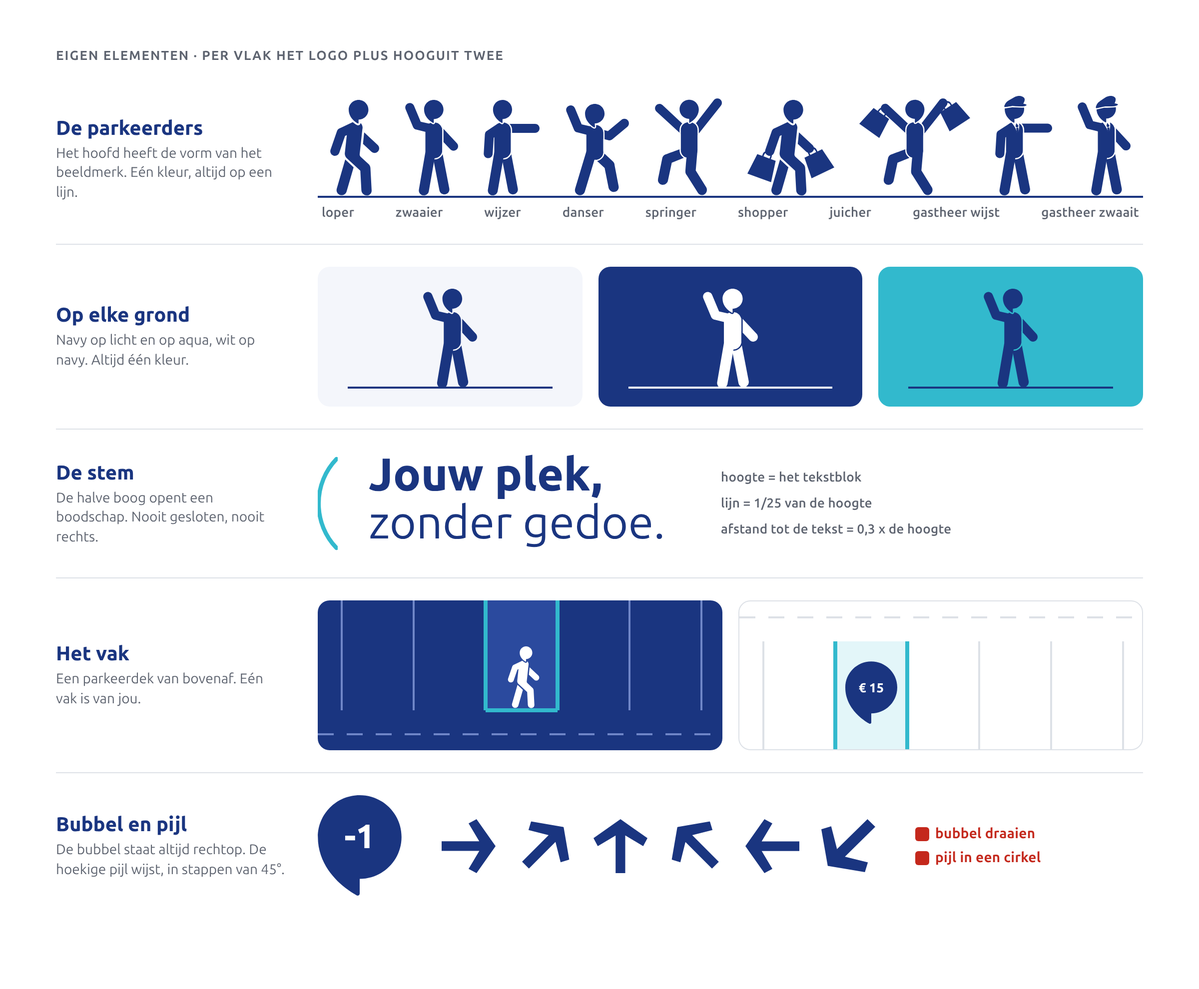
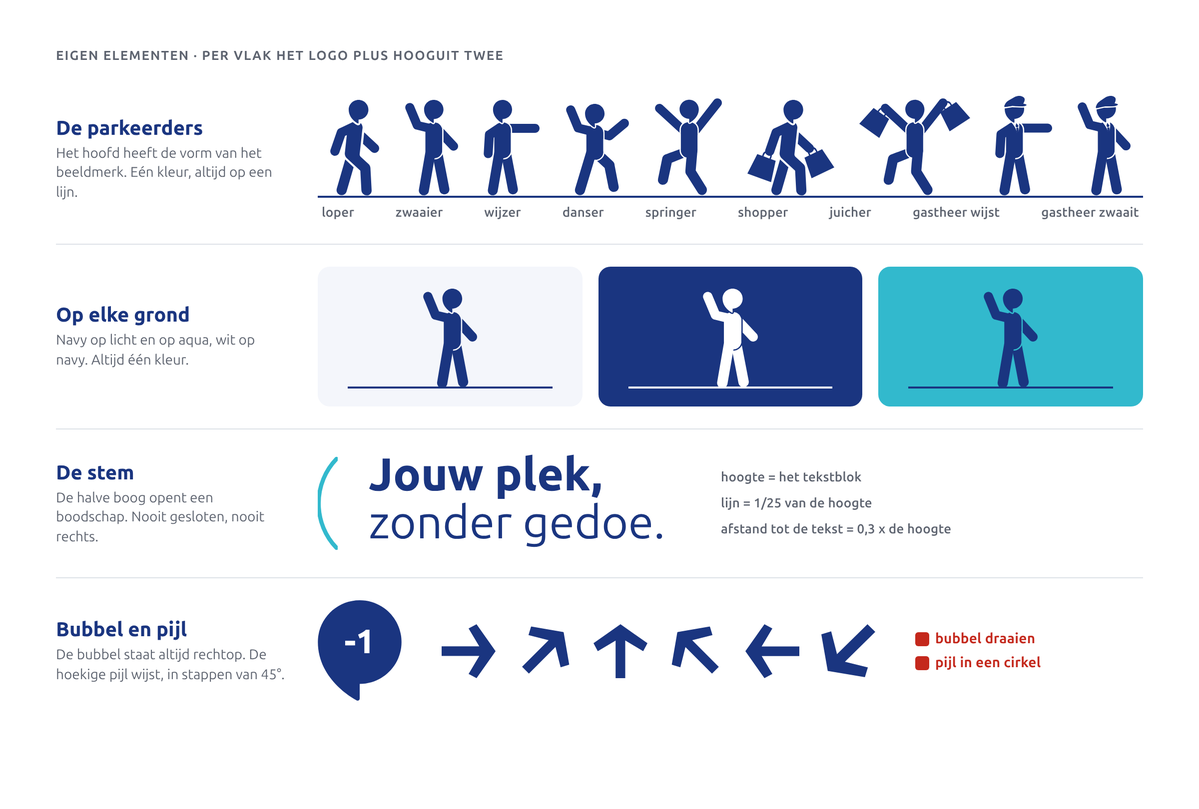
brand-2027: D44 work in progress (intro, short guide)
Claude-Session: https://claude.ai/code/session_01A5zCZPhhdyTXntSMSAxsZz

diff --git a/brand-2027/02-build/02-kleur/figures/aqua-roles.html b/brand-2027/02-build/02-kleur/figures/aqua-roles.html
@@ -12,7 +12,7 @@
 <body>
 <div class="fig" style="width:1200px;height:640px;padding:48px;display:flex;flex-direction:column;gap:22px">
 <div class="eyebrow">PY-Aqua · buiten de garage ons accent, in de garage lopen</div>
-<div style="display:flex;gap:40px"><div style="display:flex;flex-direction:column;gap:8px;width:246px"><div style="position:relative;width:246px;height:250px;background:#FFFFFF;box-shadow:inset 0 0 0 1px #DDE1E7;border-radius:12px;overflow:hidden"><div style="position:absolute;left:28px;top:91px"><div style="display:flex;align-items:flex-start"><svg viewBox="0 0 10 45.44" width="14.96" height="68.00" aria-hidden="true" style="display:block;flex:none;overflow:visible"><path d="M9.393 0.453C6.631 3.303 4.396 6.696 2.852 10.463C1.307 14.231 0.453 18.373 0.453 22.721C0.453 27.069 1.307 31.211 2.852 34.978C4.396 38.746 6.631 42.139 9.393 44.988" fill="none" stroke="#32B9CD" stroke-width="2.72" stroke-linecap="round" vector-effect="non-scaling-stroke"/></svg><div style="margin-left:20.40px"><div style="font:400 30px/34px var(--py-font-sans);color:#1A3580;letter-spacing:-0.005em"><div style="height:34px;white-space:nowrap"><b style="font-weight:800">Jouw plek</b>,</div><div style="height:34px;white-space:nowrap">geregeld.</div></div></div></div></div></div><div class="lbl" style="color:#1A3580">De stem</div><div class="note">Opent een kop. Aqua op wit en navy, navy op aqua.</div></div><div style="display:flex;flex-direction:column;gap:8px;width:246px"><div style="position:relative;width:246px;height:250px;background:#1A3580;border-radius:12px;overflow:hidden"><svg viewBox="0 0 246 250" width="246" height="250" aria-hidden="true" style="position:absolute;left:0;top:0"><rect x="102" y="100" width="72" height="150" fill="#2B4A9E"/><line x1="30" y1="100" x2="30" y2="250" stroke="#6F86C8" stroke-width="2"/><line x1="102" y1="100" x2="102" y2="250" stroke="#6F86C8" stroke-width="2"/><line x1="174" y1="100" x2="174" y2="250" stroke="#6F86C8" stroke-width="2"/><line x1="246" y1="100" x2="246" y2="250" stroke="#6F86C8" stroke-width="2"/><line x1="0" y1="76.0" x2="246" y2="76.0" stroke="#6F86C8" stroke-width="2" stroke-dasharray="14.4 12.0"/><line x1="102" y1="100" x2="102" y2="250" stroke="#32B9CD" stroke-width="4"/><line x1="174" y1="100" x2="174" y2="250" stroke="#32B9CD" stroke-width="4"/></svg><div style="position:absolute;left:110px;top:122px"><div style="position:relative;width:56px;height:67.5px;flex:none;"><svg viewBox="0 0 36 43.423" width="56" height="67.5" aria-hidden="true" style="position:absolute;left:0;top:0;overflow:visible"><path d="M18 0C8.059 0 0 8.058 0 17.999C0 34.701 16.691 43.074 16.691 43.074C17.264 43.423 18 43.006 18 42.335L18 35.997C27.941 35.997 36 27.939 36 17.999C36 8.058 27.941 0 18 0Z" fill="#FFFFFF"/></svg><div style="position:absolute;left:0;top:0;width:56px;height:56px;display:flex;align-items:center;justify-content:center;color:#1A3580"><span class="tnum" style="font:800 16px/1 var(--py-font-sans);white-space:nowrap">Vrij</span></div></div></div></div><div class="lbl" style="color:#1A3580">De randen van jouw vak</div><div class="note">Twee aqua lijnen, dubbel zo dik als de andere.</div></div><div style="display:flex;flex-direction:column;gap:8px;width:246px"><div style="position:relative;width:246px;height:250px;background:#24272C;border-radius:12px;overflow:hidden"><div style="position:absolute;left:24px;top:24px;right:24px;bottom:24px;background:#32B9CD;padding:20px;display:flex;flex-direction:column;justify-content:space-between;color:#1A3580"><div style="display:flex;align-items:center"><svg viewBox="0 0 11.924 22.951" width="33.3" height="64" aria-hidden="true" style="display:block;flex:none"><g ><path d="M9.719 16.354C9.716 16.302 9.71 16.252 9.701 16.202C9.675 15.903 9.542 15.614 9.306 15.394L7.394 13.619C7.216 13.454 7.126 13.214 7.152 12.972L7.793 7.022C7.84 6.842 7.854 6.649 7.83 6.449C7.786 6.089 7.613 5.767 7.36 5.531C7.343 5.844 7.083 6.094 6.766 6.094C6.664 6.094 6.565 6.068 6.477 6.018C6.386 5.97 5.969 5.742 5.507 5.332L2.277 6.854C2.049 6.962 1.88 7.144 1.784 7.357C1.756 7.409 1.732 7.463 1.712 7.52L0.197 11.932C0 12.507 0.306 13.132 0.881 13.33C1.455 13.527 2.081 13.221 2.278 12.647L3.655 8.637L4.078 8.438L3.613 12.649C3.613 12.649 3.6 12.781 3.6 12.848C3.6 13.167 3.698 13.462 3.865 13.707C3.921 13.794 3.988 13.875 4.068 13.949L7.304 16.954L7.557 21.649C7.593 22.321 8.174 22.871 8.847 22.871C9.52 22.871 10.041 22.321 10.005 21.649L9.719 16.354" fill="#1A3580"/><path d="M4.529 2.353C4.529 1.055 5.584 0 6.882 0C8.181 0 9.236 1.055 9.236 2.353C9.236 3.651 8.181 4.706 6.882 4.706L6.882 5.534C6.882 5.622 6.784 5.678 6.712 5.632C6.712 5.632 4.529 4.535 4.529 2.353" fill="#1A3580"/><path d="M11.453 10.781L8.222 7.783L7.939 10.521L9.957 12.393C10.402 12.807 11.098 12.781 11.511 12.335C11.924 11.89 11.899 11.194 11.453 10.781" fill="#1A3580"/><path d="M1.677 21.248C1.489 21.896 1.863 22.575 2.511 22.763C3.159 22.951 3.837 22.577 4.025 21.929L5.704 16.138L3.703 14.266L1.677 21.248" fill="#1A3580"/></g></svg><div style="margin:0 19px"><svg viewBox="0 0 10 45.44" width="14.08" height="64.00" aria-hidden="true" style="display:block;flex:none;overflow:visible"><path d="M9.393 0.453C6.631 3.303 4.396 6.696 2.852 10.463C1.307 14.231 0.453 18.373 0.453 22.721C0.453 27.069 1.307 31.211 2.852 34.978C4.396 38.746 6.631 42.139 9.393 44.988" fill="none" stroke="#1A3580" stroke-width="2.56" stroke-linecap="round" vector-effect="non-scaling-stroke"/></svg></div><svg viewBox="0 0 250 250" width="64" height="64" aria-hidden="true" style="display:block;flex:none;transform:rotate(0deg);"><path d="M161.762 0L125 19.794L174.279 102.376L0 102.376L0 147.059L174.618 147.059L125 230.205L161.762 249.999L249.999 125L161.762 0" fill="#1A3580"/></svg></div><div><div style="font:700 26px/1.1 var(--py-font-sans)">Uitgang</div><div style="font:400 26px/1.1 var(--py-font-sans);margin-top:4px">Exit</div></div></div></div><div class="lbl" style="color:#1A3580">Lopen in de garage</div><div class="note">Aqua bord met navy inhoud. De stem scheidt pictogram en pijl.</div></div></div>
+<div style="display:flex;gap:40px"><div style="display:flex;flex-direction:column;gap:8px;width:246px"><div style="position:relative;width:246px;height:250px;background:#FFFFFF;box-shadow:inset 0 0 0 1px #DDE1E7;border-radius:12px;overflow:hidden"><div style="position:absolute;left:28px;top:91px"><div style="display:flex;align-items:flex-start"><svg viewBox="0 0 10 45.44" width="14.96" height="68.00" aria-hidden="true" style="display:block;flex:none;overflow:visible"><path d="M9.393 0.453C6.631 3.303 4.396 6.696 2.852 10.463C1.307 14.231 0.453 18.373 0.453 22.721C0.453 27.069 1.307 31.211 2.852 34.978C4.396 38.746 6.631 42.139 9.393 44.988" fill="none" stroke="#32B9CD" stroke-width="2.72" stroke-linecap="round" vector-effect="non-scaling-stroke"/></svg><div style="margin-left:20.40px"><div style="font:400 30px/34px var(--py-font-sans);color:#1A3580;letter-spacing:-0.005em"><div style="height:34px;white-space:nowrap"><b style="font-weight:800">Jouw plek</b>,</div><div style="height:34px;white-space:nowrap">geregeld.</div></div></div></div></div></div><div class="lbl" style="color:#1A3580">De stem</div><div class="note">Opent een kop. Aqua op wit en navy, navy op aqua.</div></div><div style="display:flex;flex-direction:column;gap:8px;width:246px"><div style="position:relative;width:246px;height:250px;background:#1A3580;border-radius:12px;overflow:hidden"><div style="position:absolute;left:71px;top:62px"><div style="position:relative;width:104px;height:125.4px;flex:none;"><svg viewBox="0 0 36 43.423" width="104" height="125.4" aria-hidden="true" style="position:absolute;left:0;top:0;overflow:visible"><path d="M18 0C8.059 0 0 8.058 0 17.999C0 34.701 16.691 43.074 16.691 43.074C17.264 43.423 18 43.006 18 42.335L18 35.997C27.941 35.997 36 27.939 36 17.999C36 8.058 27.941 0 18 0Z" fill="#32B9CD"/></svg><div style="position:absolute;left:0;top:0;width:104px;height:104px;display:flex;align-items:center;justify-content:center;color:#1A3580"><span class="tnum" style="font:800 26px/1 var(--py-font-sans);white-space:nowrap">Vrij</span></div></div></div></div><div class="lbl" style="color:#1A3580">Een bubbel op navy</div><div class="note">Aqua bubbel op een navy vlak, met PY-Blauw erin (4,80:1).</div></div><div style="display:flex;flex-direction:column;gap:8px;width:246px"><div style="position:relative;width:246px;height:250px;background:#1A3580;border-radius:12px;overflow:hidden"><div style="position:absolute;left:24px;top:28px"><img src="../../kit/assets/logo-horizontal-reverse.svg" alt="" style="height:28px;display:block;"></div><div style="position:absolute;left:24px;right:24px;bottom:28px;height:48px;border-radius:999px;background:#32B9CD;color:#0D142E;display:flex;align-items:center;justify-content:center;gap:8px;font:600 16px/24px var(--py-font-sans)"><span>Reserveer je plek</span><svg viewBox="0 0 250 250" width="11" height="11" aria-hidden="true" style="display:block;flex:none;margin-top:1px"><path d="M161.762 0L125 19.794L174.279 102.376L0 102.376L0 147.059L174.618 147.059L125 230.205L161.762 249.999L249.999 125L161.762 0" fill="#0D142E"/></svg></div></div><div class="lbl" style="color:#1A3580">Kleine accenten</div><div class="note">De stip in het logo. Op navy de hoofdknop in aqua met PY-Diep (7,74:1).</div></div><div style="display:flex;flex-direction:column;gap:8px;width:246px"><div style="position:relative;width:246px;height:250px;background:#24272C;border-radius:12px;overflow:hidden"><div style="position:absolute;left:24px;top:24px;right:24px;bottom:24px;background:#32B9CD;padding:20px;display:flex;flex-direction:column;justify-content:space-between;color:#1A3580"><div style="display:flex;align-items:center"><svg viewBox="0 0 11.924 22.951" width="33.3" height="64" aria-hidden="true" style="display:block;flex:none"><g ><path d="M9.719 16.354C9.716 16.302 9.71 16.252 9.701 16.202C9.675 15.903 9.542 15.614 9.306 15.394L7.394 13.619C7.216 13.454 7.126 13.214 7.152 12.972L7.793 7.022C7.84 6.842 7.854 6.649 7.83 6.449C7.786 6.089 7.613 5.767 7.36 5.531C7.343 5.844 7.083 6.094 6.766 6.094C6.664 6.094 6.565 6.068 6.477 6.018C6.386 5.97 5.969 5.742 5.507 5.332L2.277 6.854C2.049 6.962 1.88 7.144 1.784 7.357C1.756 7.409 1.732 7.463 1.712 7.52L0.197 11.932C0 12.507 0.306 13.132 0.881 13.33C1.455 13.527 2.081 13.221 2.278 12.647L3.655 8.637L4.078 8.438L3.613 12.649C3.613 12.649 3.6 12.781 3.6 12.848C3.6 13.167 3.698 13.462 3.865 13.707C3.921 13.794 3.988 13.875 4.068 13.949L7.304 16.954L7.557 21.649C7.593 22.321 8.174 22.871 8.847 22.871C9.52 22.871 10.041 22.321 10.005 21.649L9.719 16.354" fill="#1A3580"/><path d="M4.529 2.353C4.529 1.055 5.584 0 6.882 0C8.181 0 9.236 1.055 9.236 2.353C9.236 3.651 8.181 4.706 6.882 4.706L6.882 5.534C6.882 5.622 6.784 5.678 6.712 5.632C6.712 5.632 4.529 4.535 4.529 2.353" fill="#1A3580"/><path d="M11.453 10.781L8.222 7.783L7.939 10.521L9.957 12.393C10.402 12.807 11.098 12.781 11.511 12.335C11.924 11.89 11.899 11.194 11.453 10.781" fill="#1A3580"/><path d="M1.677 21.248C1.489 21.896 1.863 22.575 2.511 22.763C3.159 22.951 3.837 22.577 4.025 21.929L5.704 16.138L3.703 14.266L1.677 21.248" fill="#1A3580"/></g></svg><div style="margin:0 19px"><svg viewBox="0 0 10 45.44" width="14.08" height="64.00" aria-hidden="true" style="display:block;flex:none;overflow:visible"><path d="M9.393 0.453C6.631 3.303 4.396 6.696 2.852 10.463C1.307 14.231 0.453 18.373 0.453 22.721C0.453 27.069 1.307 31.211 2.852 34.978C4.396 38.746 6.631 42.139 9.393 44.988" fill="none" stroke="#1A3580" stroke-width="2.56" stroke-linecap="round" vector-effect="non-scaling-stroke"/></svg></div><svg viewBox="0 0 250 250" width="64" height="64" aria-hidden="true" style="display:block;flex:none;transform:rotate(0deg);"><path d="M161.762 0L125 19.794L174.279 102.376L0 102.376L0 147.059L174.618 147.059L125 230.205L161.762 249.999L249.999 125L161.762 0" fill="#1A3580"/></svg></div><div><div style="font:700 26px/1.1 var(--py-font-sans)">Uitgang</div><div style="font:400 26px/1.1 var(--py-font-sans);margin-top:4px">Exit</div></div></div></div><div class="lbl" style="color:#1A3580">Lopen in de garage</div><div class="note">Aqua bord met navy inhoud. De stem scheidt pictogram en pijl.</div></div></div>
 <div style="height:1px;background:#DDE1E7;margin-top:4px"></div>
 <div style="display:flex;gap:30px"><div style="display:flex;gap:14px;align-items:center;width:340px"><div style="width:120px;height:72px;border-radius:8px;background:#32B9CD;display:flex;align-items:center;justify-content:center;flex:none"><span style="font:700 22px/1 var(--py-font-sans);color:#FFFFFF">Uitgang</span></div><div style="display:flex;flex-direction:column;gap:4px"><span class="dont">Wit op aqua</span><span class="note">2,34:1. Op aqua altijd PY-Blauw.</span></div></div><div style="display:flex;gap:14px;align-items:center;width:340px"><div style="width:120px;height:72px;border-radius:8px;background:#FFFFFF;box-shadow:inset 0 0 0 1px #DDE1E7;display:flex;align-items:center;justify-content:center;flex:none"><span style="font:700 22px/1 var(--py-font-sans);color:#32B9CD">Vrij</span></div><div style="display:flex;flex-direction:column;gap:4px"><span class="dont">Aqua als tekst op wit</span><span class="note">2,34:1. Tekst in aqua is aqua.700 (4,90:1).</span></div></div><div style="display:flex;gap:14px;align-items:center;width:340px"><div style="width:120px;height:72px;border-radius:8px;background:#FFFFFF;box-shadow:inset 0 0 0 1px #DDE1E7;display:flex;align-items:center;justify-content:center;flex:none"><div style="height:36px;padding:0 16px;border-radius:999px;background:#32B9CD;color:#0D142E;display:flex;align-items:center;font:600 13px/1 var(--py-font-sans)">Reserveer</div></div><div style="display:flex;flex-direction:column;gap:4px"><span class="dont">Aqua knop op een licht scherm</span><span class="note">Op licht is de hoofdknop navy. Aqua alleen op donker.</span></div></div></div>
 </div>

diff --git a/brand-2027/03-guide/kort/guide.html b/brand-2027/03-guide/kort/guide.html
@@ -85,18 +85,17 @@ th { color: #1A3580; font-weight: 700; }
   <div class="grid">
     <div class="text">
       <div class="eyebrow">02 · Eigen elementen</div>
-      <div class="title"><svg viewBox="0 0 10 45.44" style="width: 5.4mm; height: 24.5mm" aria-hidden="true"><path d="M9.393 0.453C6.631 3.303 4.396 6.696 2.852 10.463C1.307 14.231 0.453 18.373 0.453 22.721C0.453 27.069 1.307 31.211 2.852 34.978C4.396 38.746 6.631 42.139 9.393 44.988" fill="none" stroke="#32B9CD" stroke-width="1mm" stroke-linecap="round" vector-effect="non-scaling-stroke"></path></svg><h1>Vijf elementen,<span>elk één taak.</span></h1></div>
+      <div class="title"><svg viewBox="0 0 10 45.44" style="width: 5.4mm; height: 24.5mm" aria-hidden="true"><path d="M9.393 0.453C6.631 3.303 4.396 6.696 2.852 10.463C1.307 14.231 0.453 18.373 0.453 22.721C0.453 27.069 1.307 31.211 2.852 34.978C4.396 38.746 6.631 42.139 9.393 44.988" fill="none" stroke="#32B9CD" stroke-width="1mm" stroke-linecap="round" vector-effect="non-scaling-stroke"></path></svg><h1>Vier elementen,<span>elk één taak.</span></h1></div>
       <table>
         <tr><th>Element</th><th>Taak</th></tr>
         <tr><td><b>De parkeerders</b></td><td>ons gezicht: welkom, mensen, momenten</td></tr>
-        <tr><td><b>De stem</b></td><td>de halve boog opent wat we zeggen; op borden scheidt hij de vakken</td></tr>
-        <tr><td><b>Het vak</b></td><td>een parkeerdek van bovenaf; één vak is van jou</td></tr>
+        <tr><td><b>De stem</b></td><td>de halve boog opent wat we zeggen; op borden scheidt hij de onderdelen</td></tr>
         <tr><td><b>De bubbel</b></td><td>prijs, niveau of beschikbaarheid</td></tr>
         <tr><td><b>De hoekige pijl</b></td><td>wijst de weg</td></tr>
       </table>
       <div class="rule"><b>De regel:</b> per vlak het logo plus hooguit twee van deze elementen. Dan blijft het rustig, en herken je ons toch meteen.</div>
     </div>
-    <div class="fig"><img src="img/identity-elements.jpg" alt="De vijf eigen elementen"></div>
+    <div class="fig"><img src="img/identity-elements.jpg" alt="De vier eigen elementen"></div>
   </div>
   <div class="foot"><span><b>parkingyou</b> huisstijl 2027 · kort</span><span>3</span></div>
 </section>
@@ -203,20 +202,20 @@ th { color: #1A3580; font-weight: 700; }
   <div class="foot"><span><b>parkingyou</b> huisstijl 2027 · kort</span><span>8</span></div>
 </section>
 
-<!-- 9 Stem en vak -->
+<!-- 9 Stem en vlakke grond -->
 <section class="page">
   <div class="grid">
     <div class="text">
-      <div class="eyebrow">08 · De stem en het vak</div>
-      <div class="title"><svg viewBox="0 0 10 45.44" style="width: 5.4mm; height: 24.5mm" aria-hidden="true"><path d="M9.393 0.453C6.631 3.303 4.396 6.696 2.852 10.463C1.307 14.231 0.453 18.373 0.453 22.721C0.453 27.069 1.307 31.211 2.852 34.978C4.396 38.746 6.631 42.139 9.393 44.988" fill="none" stroke="#32B9CD" stroke-width="1mm" stroke-linecap="round" vector-effect="non-scaling-stroke"></path></svg><h1>De stem<span>en het vak.</span></h1></div>
-      <p><b>De stem</b> is de halve boog uit het handboek. Hij opent een boodschap, als een aanhalingsteken dat nooit sluit. Op borden scheidt hij de vakken. Aqua op wit en navy, navy op aqua.</p>
-      <p><b>Het vak</b> is een parkeerdek van bovenaf. Eén vak is van jou: gevuld, met aqua randen en een stoplijn. Daarin staat één parkeerder of één bubbel, nooit meer.</p>
+      <div class="eyebrow">08 · De stem en de grond</div>
+      <div class="title"><svg viewBox="0 0 10 45.44" style="width: 5.4mm; height: 24.5mm" aria-hidden="true"><path d="M9.393 0.453C6.631 3.303 4.396 6.696 2.852 10.463C1.307 14.231 0.453 18.373 0.453 22.721C0.453 27.069 1.307 31.211 2.852 34.978C4.396 38.746 6.631 42.139 9.393 44.988" fill="none" stroke="#32B9CD" stroke-width="1mm" stroke-linecap="round" vector-effect="non-scaling-stroke"></path></svg><h1>De stem<span>op een vlakke grond.</span></h1></div>
+      <p><b>De stem</b> is de halve boog uit het handboek. Hij opent een boodschap, als een aanhalingsteken dat nooit sluit. Op borden scheidt hij de onderdelen. Aqua op wit en navy, navy op aqua.</p>
       <ul>
-        <li>Vak: steek 4u (scherm 72 px), lijn 0,05u, vakken 6u tot 8u lang.</li>
-        <li>Het vak is achtergrond voor social, pas, nieuwsbrief en tickets. Nooit op een wegwijsbord, nooit achter tekst.</li>
+        <li>Hoogte = het tekstblok. Lijn = 1/25 van de hoogte. Afstand tot de tekst = 0,3 x de hoogte.</li>
+        <li>Altijd links van de tekst, nooit gesloten.</li>
       </ul>
+      <p><b>De grond</b> is vlak: PY-Blauw of wit, voor rustige delen het lichte blauw. Geen patroon, geen verloop, geen vorm als decoratie. De stem en één parkeerder op een lijn maken het van ons.</p>
     </div>
-    <div class="fig two"><img src="img/stem.jpg" alt="De stem"><img src="img/vak.jpg" alt="Het vak"></div>
+    <div class="fig two"><img src="img/stem.jpg" alt="De stem"><img src="img/combinaties.jpg" alt="De stem en een parkeerder op een vlakke grond"></div>
   </div>
   <div class="foot"><span><b>parkingyou</b> huisstijl 2027 · kort</span><span>9</span></div>
 </section>
@@ -308,7 +307,7 @@ th { color: #1A3580; font-weight: 700; }
 <!-- 14 Print en social -->
 <section class="page">
   <div class="eyebrow">13 · Print en social</div>
-  <div class="title" style="margin-top: 4mm"><svg viewBox="0 0 10 45.44" style="width: 5.4mm; height: 24.5mm" aria-hidden="true"><path d="M9.393 0.453C6.631 3.303 4.396 6.696 2.852 10.463C1.307 14.231 0.453 18.373 0.453 22.721C0.453 27.069 1.307 31.211 2.852 34.978C4.396 38.746 6.631 42.139 9.393 44.988" fill="none" stroke="#32B9CD" stroke-width="1mm" stroke-linecap="round" vector-effect="non-scaling-stroke"></path></svg><h1>Jouw vak<span>staat klaar.</span></h1></div>
+  <div class="title" style="margin-top: 4mm"><svg viewBox="0 0 10 45.44" style="width: 5.4mm; height: 24.5mm" aria-hidden="true"><path d="M9.393 0.453C6.631 3.303 4.396 6.696 2.852 10.463C1.307 14.231 0.453 18.373 0.453 22.721C0.453 27.069 1.307 31.211 2.852 34.978C4.396 38.746 6.631 42.139 9.393 44.988" fill="none" stroke="#32B9CD" stroke-width="1mm" stroke-linecap="round" vector-effect="non-scaling-stroke"></path></svg><h1>Jouw plek<span>staat klaar.</span></h1></div>
   <div style="display: grid; grid-template-columns: 0.62fr 1fr 1fr; gap: 8mm; margin-top: 8mm; align-items: start">
     <div class="fig"><img src="img/key-social-post.jpg" alt="Social post" style="max-height: 118mm"><div class="cap">Social post 4:5: het vak en de gastheer</div></div>
     <div class="fig"><img src="img/key-subscription-card.jpg" alt="Abonnementspas" style="max-height: 118mm"><div class="cap">Abonnementspas: het vak met de zwaaier</div></div>

diff --git a/brand-2027/02-build/00-core/figures/identity-elements.html b/brand-2027/02-build/00-core/figures/identity-elements.html
@@ -13,7 +13,7 @@
 </style>
 </head>
 <body>
-<div class="fig" style="width: 1200px; height: 990px; padding: 48px 56px; display: flex; flex-direction: column">
+<div class="fig" style="width: 1200px; height: 810px; padding: 48px 56px; display: flex; flex-direction: column">
   <div style="display: flex; justify-content: space-between; align-items: flex-end; padding-bottom: 10px">
     <div class="eyebrow">Eigen elementen · per vlak het logo plus hooguit twee</div>
   </div>
@@ -54,20 +54,6 @@
         <div style="color: var(--py-text-brand); font-size: 46px; line-height: 1.05"><div style="font-weight: 800">Jouw plek,</div><div style="font-weight: 400">zonder gedoe.</div></div>
       </div>
       <div style="display: flex; flex-direction: column; gap: 8px" class="note"><span>hoogte = het tekstblok</span><span>lijn = 1/25 van de hoogte</span><span>afstand tot de tekst = 0,3 x de hoogte</span></div>
-    </div>
-  </div>
-
-  <div class="row">
-    <div class="lbl"><b>Het vak</b><span>Een parkeerdek van bovenaf. Eén vak is van jou.</span></div>
-    <div style="flex-grow: 1; display: grid; grid-template-columns: repeat(2, minmax(0, 1fr)); gap: 16px">
-      <div style="height: 150px; border-radius: 12px; background: var(--py-color-blue-700); position: relative; overflow: hidden">
-        <svg viewBox="0 0 420 150" width="100%" height="150" preserveAspectRatio="xMinYMin slice" style="position: absolute; left: 0; top: 0" aria-hidden="true"><g stroke="#6F86C8" stroke-width="2"><line x1="24" y1="0" x2="24" y2="110"></line><line x1="96" y1="0" x2="96" y2="110"></line><line x1="168" y1="0" x2="168" y2="110"></line><line x1="240" y1="0" x2="240" y2="110"></line><line x1="312" y1="0" x2="312" y2="110"></line><line x1="384" y1="0" x2="384" y2="110"></line><line x1="0" y1="134" x2="420" y2="134" stroke-dasharray="16 13"></line></g><rect x="168" y="0" width="72" height="110" fill="#2B4A9E"></rect><line x1="168" y1="0" x2="168" y2="110" stroke="#32B9CD" stroke-width="4"></line><line x1="240" y1="0" x2="240" y2="110" stroke="#32B9CD" stroke-width="4"></line><line x1="168" y1="110" x2="240" y2="110" stroke="#32B9CD" stroke-width="4"></line></svg>
-        <img src="../../kit/assets/figure-walk-white.svg" alt="" style="position: absolute; left: 190px; top: 46px; height: 62px">
-      </div>
-      <div style="height: 150px; border-radius: 12px; background: #FFFFFF; border: 1px solid var(--py-border-subtle); position: relative; overflow: hidden">
-        <svg viewBox="0 0 420 150" width="100%" height="150" preserveAspectRatio="xMinYMin slice" style="position: absolute; left: 0; top: 0" aria-hidden="true"><g stroke="#DDE1E7" stroke-width="2"><line x1="24" y1="40" x2="24" y2="150"></line><line x1="96" y1="40" x2="96" y2="150"></line><line x1="168" y1="40" x2="168" y2="150"></line><line x1="240" y1="40" x2="240" y2="150"></line><line x1="312" y1="40" x2="312" y2="150"></line><line x1="384" y1="40" x2="384" y2="150"></line><line x1="0" y1="16" x2="420" y2="16" stroke-dasharray="16 13"></line></g><rect x="96" y="40" width="72" height="110" fill="#E3F6F9"></rect><line x1="96" y1="40" x2="96" y2="150" stroke="#32B9CD" stroke-width="4"></line><line x1="168" y1="40" x2="168" y2="150" stroke="#32B9CD" stroke-width="4"></line></svg>
-        <div style="position: absolute; left: 106px; top: 60px; width: 52px; height: 63px"><svg viewBox="0 0 36 43.423" width="52" height="63" aria-hidden="true"><path d="M18 0C8.059 0 0 8.058 0 17.999C0 34.701 16.691 43.074 16.691 43.074C17.264 43.423 18 43.006 18 42.335L18 35.997C27.941 35.997 36 27.939 36 17.999C36 8.058 27.941 0 18 0Z" fill="#1A3580"/></svg><div class="tnum" style="position: absolute; left: 0; top: 0; width: 52px; height: 52px; display: flex; align-items: center; justify-content: center; color: #FFFFFF; font-weight: 800; font-size: 13px">€ 15</div></div>
-      </div>
     </div>
   </div>
 

diff --git a/brand-2027/02-build/00-intro/figures/identity-elements.html b/brand-2027/02-build/00-intro/figures/identity-elements.html
@@ -13,7 +13,7 @@
 </style>
 </head>
 <body>
-<div class="fig" style="width: 1200px; height: 990px; padding: 48px 56px; display: flex; flex-direction: column">
+<div class="fig" style="width: 1200px; height: 810px; padding: 48px 56px; display: flex; flex-direction: column">
   <div style="display: flex; justify-content: space-between; align-items: flex-end; padding-bottom: 10px">
     <div class="eyebrow">Eigen elementen · per vlak het logo plus hooguit twee</div>
   </div>
@@ -54,20 +54,6 @@
         <div style="color: var(--py-text-brand); font-size: 46px; line-height: 1.05"><div style="font-weight: 800">Jouw plek,</div><div style="font-weight: 400">zonder gedoe.</div></div>
       </div>
       <div style="display: flex; flex-direction: column; gap: 8px" class="note"><span>hoogte = het tekstblok</span><span>lijn = 1/25 van de hoogte</span><span>afstand tot de tekst = 0,3 x de hoogte</span></div>
-    </div>
-  </div>
-
-  <div class="row">
-    <div class="lbl"><b>Het vak</b><span>Een parkeerdek van bovenaf. Eén vak is van jou.</span></div>
-    <div style="flex-grow: 1; display: grid; grid-template-columns: repeat(2, minmax(0, 1fr)); gap: 16px">
-      <div style="height: 150px; border-radius: 12px; background: var(--py-color-blue-700); position: relative; overflow: hidden">
-        <svg viewBox="0 0 420 150" width="100%" height="150" preserveAspectRatio="xMinYMin slice" style="position: absolute; left: 0; top: 0" aria-hidden="true"><g stroke="#6F86C8" stroke-width="2"><line x1="24" y1="0" x2="24" y2="110"></line><line x1="96" y1="0" x2="96" y2="110"></line><line x1="168" y1="0" x2="168" y2="110"></line><line x1="240" y1="0" x2="240" y2="110"></line><line x1="312" y1="0" x2="312" y2="110"></line><line x1="384" y1="0" x2="384" y2="110"></line><line x1="0" y1="134" x2="420" y2="134" stroke-dasharray="16 13"></line></g><rect x="168" y="0" width="72" height="110" fill="#2B4A9E"></rect><line x1="168" y1="0" x2="168" y2="110" stroke="#32B9CD" stroke-width="4"></line><line x1="240" y1="0" x2="240" y2="110" stroke="#32B9CD" stroke-width="4"></line><line x1="168" y1="110" x2="240" y2="110" stroke="#32B9CD" stroke-width="4"></line></svg>
-        <img src="../../kit/assets/figure-walk-white.svg" alt="" style="position: absolute; left: 190px; top: 46px; height: 62px">
-      </div>
-      <div style="height: 150px; border-radius: 12px; background: #FFFFFF; border: 1px solid var(--py-border-subtle); position: relative; overflow: hidden">
-        <svg viewBox="0 0 420 150" width="100%" height="150" preserveAspectRatio="xMinYMin slice" style="position: absolute; left: 0; top: 0" aria-hidden="true"><g stroke="#DDE1E7" stroke-width="2"><line x1="24" y1="40" x2="24" y2="150"></line><line x1="96" y1="40" x2="96" y2="150"></line><line x1="168" y1="40" x2="168" y2="150"></line><line x1="240" y1="40" x2="240" y2="150"></line><line x1="312" y1="40" x2="312" y2="150"></line><line x1="384" y1="40" x2="384" y2="150"></line><line x1="0" y1="16" x2="420" y2="16" stroke-dasharray="16 13"></line></g><rect x="96" y="40" width="72" height="110" fill="#E3F6F9"></rect><line x1="96" y1="40" x2="96" y2="150" stroke="#32B9CD" stroke-width="4"></line><line x1="168" y1="40" x2="168" y2="150" stroke="#32B9CD" stroke-width="4"></line></svg>
-        <div style="position: absolute; left: 106px; top: 60px; width: 52px; height: 63px"><svg viewBox="0 0 36 43.423" width="52" height="63" aria-hidden="true"><path d="M18 0C8.059 0 0 8.058 0 17.999C0 34.701 16.691 43.074 16.691 43.074C17.264 43.423 18 43.006 18 42.335L18 35.997C27.941 35.997 36 27.939 36 17.999C36 8.058 27.941 0 18 0Z" fill="#1A3580"/></svg><div class="tnum" style="position: absolute; left: 0; top: 0; width: 52px; height: 52px; display: flex; align-items: center; justify-content: center; color: #FFFFFF; font-weight: 800; font-size: 13px">€ 15</div></div>
-      </div>
     </div>
   </div>
 

diff --git a/brand-2027/02-build/09-ui/figures/ui.js b/brand-2027/02-build/09-ui/figures/ui.js
@@ -6,9 +6,7 @@
 // 3. <span class="bub" data-size="64" data-fill="navy">content</span> -> the bubble (path from kit/assets/bubble.svg, never redrawn, never rotated)
 // 4. <div class="voice"><div class="voice__text">...</div></div> -> de stem (kit/assets/arc.svg) left of the text block:
 //    height = text block, stroke = 1/25 of the height (at least 1.5 px), gap = 0.3 x the height.
-// 5. <div class="vak" data-ground="brand|light" data-h="144" data-shift="0">one bubble or one figure</div> -> het vak
-//    (bay pitch 72, line 2 px, jouw vak filled with aqua side lines at double weight, lines run in from the top edge)
-// 6. <div class="qr" data-size="132"></div> -> placeholder QR pattern (not a real code)
+// 5. <div class="qr" data-size="132"></div> -> placeholder QR pattern (not a real code)
 (function () {
   const P = {
     search: '<circle cx="10" cy="10" r="7"/><path d="M21 21l-6-6"/>',
@@ -74,26 +72,6 @@
     el.style.cssText += `;position:relative;display:inline-block;flex:none;width:${w}px;height:${h.toFixed(1)}px;color:${INK[f]}`;
     el.innerHTML = `<svg viewBox="${vb}" width="${w}" height="${h.toFixed(1)}" style="position:absolute;left:0;top:0" aria-hidden="true"><path d="${BP}" style="fill:${FILL[f]};${stroke}"/></svg>` +
       `<span class="bub__c" style="position:absolute;left:0;top:0;width:${w}px;height:${w}px;display:flex;flex-direction:column;align-items:center;justify-content:center;text-align:center">${inner}</span>`;
-  });
-
-  // Het vak: bay lines from the top edge, pitch 72, line 2 px; jouw vak filled, side lines aqua at 4 px; content centred in jouw vak.
-  document.querySelectorAll('.vak').forEach(el => {
-    const W = el.offsetWidth, H = +(el.dataset.h || 144), pitch = 72, brand = el.dataset.ground === 'brand';
-    const line = brand ? 'var(--py-vak-line-on-brand)' : 'var(--py-vak-line)';
-    const mine = brand ? 'var(--py-vak-mine-on-brand)' : 'var(--py-vak-mine)';
-    const x0 = ((W / 2 - pitch / 2) % pitch + pitch) % pitch;
-    const m = Math.round((W / 2 - pitch / 2 - x0) / pitch) + (+(el.dataset.shift || 0));
-    const mx = x0 + m * pitch;
-    let s = `<rect x="${mx}" y="0" width="${pitch}" height="${H}" fill="${mine}"/>`;
-    for (let x = x0; x <= W; x += pitch) {
-      const isEdge = Math.abs(x - mx) < 1 || Math.abs(x - mx - pitch) < 1;
-      s += isEdge ? '' : `<rect x="${x - 1}" y="0" width="2" height="${H}" fill="${line}"/>`;
-    }
-    s += `<rect x="${mx - 2}" y="0" width="4" height="${H}" fill="var(--py-vak-mine-edge)"/><rect x="${mx + pitch - 2}" y="0" width="4" height="${H}" fill="var(--py-vak-mine-edge)"/>`;
-    const inner = el.innerHTML;
-    el.style.cssText += `;position:relative;height:${H}px;flex:none`;
-    el.innerHTML = `<svg width="${W}" height="${H}" style="position:absolute;left:0;top:0" aria-hidden="true">${s}</svg>` +
-      `<div style="position:absolute;left:${mx}px;top:0;width:${pitch}px;height:${H}px;display:flex;align-items:center;justify-content:center">${inner}</div>`;
   });
 
   document.querySelectorAll('.qr').forEach(el => {

diff --git a/brand-2027/tokens/tokens.css b/brand-2027/tokens/tokens.css
@@ -79,11 +79,6 @@
   --py-task-pay-bg: var(--py-color-orange-500);
   --py-task-pay-fg: var(--py-color-blue-900);
   --py-voice-arc: var(--py-color-aqua-500);
-  --py-vak-line: var(--py-color-neutral-200);
-  --py-vak-line-on-brand: var(--py-color-blue-400);
-  --py-vak-mine: var(--py-color-aqua-100);
-  --py-vak-mine-on-brand: var(--py-color-blue-600);
-  --py-vak-mine-edge: var(--py-color-aqua-500);
   --py-figure-body: var(--py-color-blue-700);
   --py-bubble-navy: var(--py-color-blue-700);
   --py-bubble-aqua: var(--py-color-aqua-500);
@@ -215,11 +210,6 @@
   --py-task-pay-bg: var(--py-color-orange-500);
   --py-task-pay-fg: var(--py-color-blue-900);
   --py-voice-arc: var(--py-color-aqua-500);
-  --py-vak-line: var(--py-color-blue-400);
-  --py-vak-line-on-brand: var(--py-color-blue-400);
-  --py-vak-mine: var(--py-color-blue-600);
-  --py-vak-mine-on-brand: var(--py-color-blue-600);
-  --py-vak-mine-edge: var(--py-color-aqua-500);
   --py-figure-body: var(--py-color-neutral-0);
   --py-bubble-navy: var(--py-color-blue-700);
   --py-bubble-aqua: var(--py-color-aqua-500);

diff --git a/brand-2027/tools/build_tokens.py b/brand-2027/tools/build_tokens.py
@@ -111,13 +111,6 @@ SEMANTIC = {
     "voice": {
         "arc": ("aqua.500", "aqua.500", "De stem (half arc) on white and navy; on aqua grounds use blue.700."),
     },
-    "vak": {
-        "line": ("neutral.200", "blue.400", "Het vak: bay lines (light ground / navy ground)."),
-        "line-on-brand": ("blue.400", "blue.400", "Het vak on surface.brand."),
-        "mine": ("aqua.100", "blue.600", "Jouw vak fill."),
-        "mine-on-brand": ("blue.600", "blue.600", "Jouw vak fill on surface.brand."),
-        "mine-edge": ("aqua.500", "aqua.500", "Jouw vak side lines, double weight."),
-    },
     "figure": {
         "body": ("blue.700", "neutral.0", "Parkeerders, one colour (D41): navy on light and aqua grounds / white on navy."),
     },

diff --git a/brand-2027/tools/build_short_guide.py b/brand-2027/tools/build_short_guide.py
@@ -24,7 +24,7 @@ FIGS = {
     "layoutpatronen": "04-grid/figures/layoutpatronen.png",
     "parkeerders-cast": "05-patronen/figures/parkeerders-cast.png",
     "stem": "05-patronen/figures/stem.png",
-    "vak": "05-patronen/figures/vak.png",
+    "combinaties": "05-patronen/figures/combinaties.png",
     "pijl-constructie": "06-iconografie/figures/pijl-constructie.png",
     "style-board": "08-fotografie/figures/style-board.png",
     "screens-key": "09-ui/figures/screens-key.png",

diff --git a/brand-2027/02-build/core-spec.md b/brand-2027/02-build/core-spec.md
@@ -24,6 +24,7 @@ and the creative director decides. Until approved, a proposed value is not used 
 | 8 | Arrow (v2) | The angular arrow from the repo (`py-atom-arrow-*-plain`) is the main arrow everywhere an arrow appears. |
 | 9 | Half arc (v2) | Back, as "de stem" (section 4b). |
 | 10 | Verloop (v2) | Retired. All colour is flat. |
+| 11 | Het vak | Retired after Gate 2, round 2 (D44): four own elements, flat backgrounds. |
 
 ## 1. Brand principles
 
@@ -94,19 +95,18 @@ The bubble is the outer silhouette of the beeldmerk (path in `kit/assets/bubble.
 - **(v2) Always upright.** The bubble is the beeldmerk's silhouette, so like the logo it is never rotated or mirrored. Direction is shown by the angular arrow, never by the tail.
 - **Count.** One bubble per surface. Two on surfaces of 1 m or more in either direction, or on multi-panel layouts (pylon, overview board), never touching.
 - **Clear space.** 1u around the bubble (screen: 8 px for 24 and 40 px bubbles, 16 px for larger).
-- **(v2) No background bubble.** Large decorative bubbles are retired; that role goes to "het vak" (section 4b).
+- **(v2) No background bubble.** Large decorative bubbles are retired; backgrounds are flat PY-Blauw or white (D44).
 - **Never:** gradient fill, shadow, 3D, pattern fill, text longer than 6 characters, the logo inside, two bubbles overlapping, a bubble as a photo frame with text over it, a bubble in safety or RVV signs.
 - **Motion (v2).** The bubble pops in: scale 0.9 to 1 with `easing.bubble`, `duration.expressive` 600 ms, no rotation. Brand moments only (reel open and close, app splash, confirmation). Under reduced motion: fade 0 to 1 in 120 ms.
 
 ## 4b. Own elements (v2)
 
-Five elements, each with one task. **Per surface: the logo plus at most two of them.** Reference figure: `00-core/figures/identity-elements.png`.
+Four elements, each with one task (D44: het vak is retired). **Per surface: the logo plus at most two of them.** Reference figure: `00-core/figures/identity-elements.png`.
 
 | Element | Task | Source |
 |---|---|---|
 | De parkeerders | the brand's face; people, welcome, moments | `svg/atom/py-atom-figure-*`; kit `figure-*-navy.svg`, `figure-*-white.svg` |
 | De stem (halve boog) | opens a message; separates modules on signs | `svg/atom/py-atom-shape-bracket-arc` (arc only); kit `arc.svg` |
-| Het vak | background: a parking deck from above, one bay is yours | drawn from the rules below |
 | De bubbel | price, level, availability | section 4 |
 | De hoekige pijl | direction | `svg/atom/py-atom-arrow-*-plain`; kit `arrow-*` |
 
@@ -123,10 +123,7 @@ Five elements, each with one task. **Per surface: the logo plus at most two of t
 - On signs: the separator between modules (P and arrow, pictogram and text), same stroke as above, PY-Aqua on navy, PY-Blauw on aqua.
 - One per surface in layouts; on signs as many separators as there are module breaks.
 
-**Het vak.** A parking deck seen from above. Vertical bay lines at a pitch of 4u (screen: 72 px), line weight 0.05u (screen 2 px), running in from the top or bottom edge for 6u to 8u (screen 144 to 192 px), with an optional dashed lane line (dash 0.3u, gap 0.25u). **(D40)**
-- Exactly one bay is "jouw vak": filled `vak.mine`, its two side lines in PY-Aqua at double weight, closed at its open end by a stop line (same weight, PY-Aqua). It holds one figure standing on that stop line, or one bubble, nothing else. **(D40)**
-- Colours: on PY-Blauw lines `blue.400`, jouw vak `blue.600`; on white lines `neutral.200`, jouw vak `aqua.100`.
-- Use: social, newsletter header, card backs, posters, screen headers and empty states. Never on wayfinding signs or behind text.
+**Backgrounds (D44).** Flat PY-Blauw or white (paper `blue.50` for quiet sections). No pattern, no deck, no decorative shape. The stem and one parkeerder carry the identity on social, cards, newsletter, posters, screen headers and empty states.
 
 **De hoekige pijl.** The handbook arrow (`py-atom-arrow-right-plain`, `-downleft-plain`), rotated in steps of 45 degrees. Colour = the content colour of its ground. Stands alone, never in a circle or bubble. In buttons and links at the cap height of the label. Tabler icons are used for everything else, never for arrows.
 
@@ -163,7 +160,7 @@ Full scales (50 to 900 for blue, aqua, orange, neutral; red 100, 600, 700) are i
 - Status always uses a word next to the colour (Vrij, Vol, Gesloten). Colour alone never carries meaning.
 
 **(v2) Marketing, screen and print.** Approximate share of a layout: white and paper (`blue.50`) 47, PY-Blauw 38, PY-Aqua 13, orange 0 percent (garage payment only, about 2 percent of a signage set).
-Aqua appears as the stem, the head of a parkeerder, jouw vak lines, a bubble or a small accent. Outside the garage, aqua is the brand accent; inside the garage aqua always means walking.
+Aqua appears as the stem, a bubble on navy or a small accent. Outside the garage, aqua is the brand accent; inside the garage aqua always means walking.
 
 **(v2) Verloop retired.** No gradients anywhere. Existing gradient signs are replaced by flat PY-Blauw at their next renewal.
 
@@ -337,5 +334,7 @@ Open for the sample-board test: orange powder coat RAL 2003 (dE 7.5) or RAL 1037
 | D42 | 2026-11-07 | Applications | On signs the stem as separator is as high as the arrow or pictogram next to it (portal: beeldmerk height), 0.3x air on both sides; on PY-Oranje signs the stem is PY-Diep; welcome wall 3000 x 1000 mm (cap height 100, stem 300, zwaaier 600 mm); newsletter header 272 px (supersedes the 88 px of D30) | Completes section 4b for signs and the newsletter |
 
 | D43 | 2026-11-07 | Patterns | Lane line of het vak 2u from the end of the bay lines (48 px on screen); gastheer and wijzer: 0.5u between hand and the text or arrow, hand at the height of the first line; mirrored figures in the kit (`figure-*-navy-flip.svg`, `-white-flip.svg`) mirror the body only, the head keeps the logo orientation; "logo plus at most two elements" also applies to signs; a parkeerder stands in jouw vak only in a deck running from the top edge, a deck from the bottom edge holds a bubble; jouw vak may stay empty; example prices that are not real tariffs are written [prijs] | Completes section 4b |
+
+| D44 | 2026-11-12 | Rick | Het vak retired: four own elements (parkeerders, stem, bubbel, hoekige pijl); backgrounds flat PY-Blauw or white. Supersedes the vak parts of D32, D35, D40 and D43 and the `vak.*` tokens | "ga voor A" (option A: weg ermee) |
 
 Pending Rick (Gate 2): drop the tagline lockup "The other way of parking" (B1 recommends: English, fails contrast in colour, unreadable at logo size).

diff --git a/brand-2027/02-build/rework-brief-d44.md b/brand-2027/02-build/rework-brief-d44.md
@@ -1,0 +1,21 @@
+# Rework brief D44: het vak is retired
+
+Rick (ParkingYou) reviewed three replacements for "het vak" (the parking-deck pattern with "jouw vak") and chose option A: **remove it, replace it with nothing**. Decision D44 in `brand-2027/02-build/core-spec.md`.
+
+## The system now
+
+- **Four own elements**: de parkeerders (one colour, always standing on a line), de stem (half arc), de bubbel (always upright), de hoekige pijl. Per surface: the logo plus at most two of them.
+- **Backgrounds are flat** PY-Blauw or white (paper `blue.50` for quiet sections). No pattern, no deck, no bays, no stop line, no lane line, no "jouw vak", no decorative shape.
+- Where het vak was used (social, subscription card, newsletter header, PWA ticket header, empty states, card backs, posters), the stem and one parkeerder standing on a short line carry the identity on a flat ground. A bubble may hold a price or level where it did before.
+- The `vak.*` tokens are gone from `tokens.json`/`tokens.css`. Do not reference them.
+- Everything else in core spec v2 stands (orange only for paying in the garage, navy main button, angular arrow, upright bubble, one-colour figures, no verloop).
+
+## What to do
+
+1. Read `brand-2027/02-build/core-spec.md` (sections 4, 4b, 5.2 and decision D44), `brand-2027/02-build/kit/README.md`, and your chapter folders (`chapter.md` and `figures/`).
+2. Remove every trace of het vak from your chapters and figures: text, tables, rules, do's and don'ts, figure captions, helper scripts (`*.js`), and the drawings. "Vier elementen", never "vijf".
+3. Redraw the affected figures on a flat ground with the remaining elements. Keep layouts calm (variant 1: much white, large type). A figure stands on a short 2 px line (screen) or 0.1u rule (print).
+4. Delete figures that only existed for het vak (HTML and PNG) and remove their references in the chapter.
+5. Render with `node brand-2027/tools/render.mjs <figures folder>`, look at every PNG (Read tool), fix what is wrong.
+6. Dutch, plain and spoken, no em dashes, no workstream jargon. Only values from the core spec and tokens. Never touch files outside your folders. Do not commit or push.
+7. Final reply: per chapter what changed, figures changed or deleted, open questions.

diff --git a/brand-2027/02-build/00-intro/chapter.md b/brand-2027/02-build/00-intro/chapter.md
@@ -12,15 +12,14 @@ We zijn niet opnieuw begonnen. Het logo, het beeldmerk, ons blauw, de hoekige pi
 
 Kijk naar de poppetjes uit ons handboek: hun hoofd heeft dezelfde vorm als ons beeldmerk. Dat is ons gezicht. Zo wordt het logo een mens: de loper bij de voetgangersingang, de zwaaier die je welkom heet, de gastheer met pet die je de weg wijst.
 
-Daaromheen staan vier andere eigen elementen. Samen zijn het er vijf, en elk heeft één taak.
+Daaromheen staan drie andere eigen elementen. Samen zijn het er vier, en elk heeft één taak.
 
 ![Eigen elementen](figures/identity-elements.png)
 
 | Element | Taak |
 |---|---|
 | De parkeerders | ons gezicht: mensen, welkom, momenten |
-| De stem | de halve boog opent wat we zeggen; op borden scheidt hij de vakken |
-| Het vak | een parkeerdek van bovenaf, en één vak is van jou |
+| De stem | de halve boog opent wat we zeggen; op borden scheidt hij de onderdelen |
 | De bubbel | draagt een prijs, een niveau of beschikbaarheid |
 | De hoekige pijl | wijst de weg |
 

diff --git a/brand-2027/02-build/kit/README.md b/brand-2027/02-build/kit/README.md
@@ -37,5 +37,4 @@ Renders every `.html` in the folder to a `.png` beside it at 2x. Look at the PNG
   Names: walk (loper), wave (zwaaier), point (wijzer), dance (danser), jump (springer), bags-walk (shopper), bags-cheer (juicher), cap-point (gastheer wijst), cap-wave (gastheer zwaait)
 - `arc.svg`: de stem (half arc). Inline it to set the colour and use `vector-effect="non-scaling-stroke"` with stroke = 1/25 of its height.
 - `arrow-plain-white.svg`, `arrow-plain-navy.svg` (points right; rotate in 45 degree steps), `arrow-downleft-*.svg`: de hoekige pijl
-- Het vak is drawn per figure with inline SVG lines (rules in core-spec section 4b).
 - Reference: `00-core/figures/identity-elements.png`. Never rotate the logo or a bubble.
